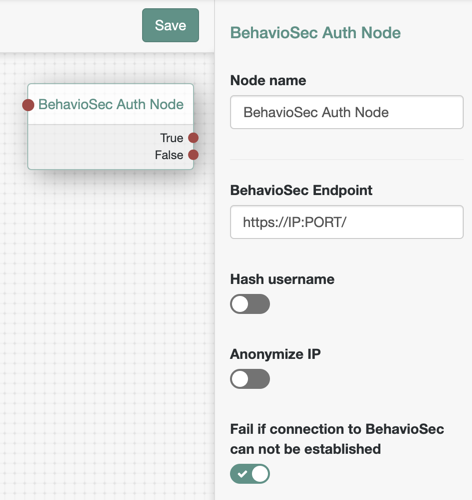
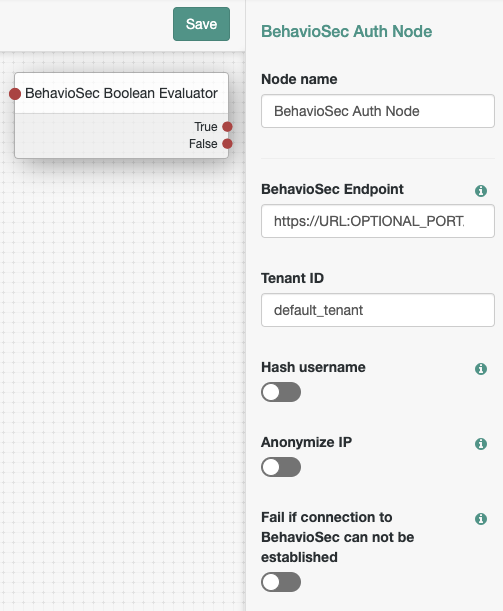
updated documentation

diff --git a/src/main/java/com/behaviosec/tree/nodes/BehavioSecPlugin.java b/src/main/java/com/behaviosec/tree/nodes/BehavioSecPlugin.java
@@ -58,7 +58,7 @@ import static java.util.Arrays.asList;
  */
 public class BehavioSecPlugin extends AbstractNodeAmPlugin {
 
-    static public String currentVersion = "1.0.1";
+    static public String currentVersion = "0.0.0";
 
     /**
      * Specify the Map of list of node classes that the plugin is providing. These will then be installed and

diff --git a/README.md b/README.md
@@ -95,6 +95,10 @@ This is a data collector node that you need to place under the page node. In the
 This node receives the collected data and communicates with the server. 
 
 ### Options
+*BehavioSec Endpoint* - if set to true, the username will be hashed using `Hashing.sha256()`
+
+*Tenant ID* - if set to true, the username will be hashed using `Hashing.sha256()`
+
 *Hash username* - if set to true, the username will be hashed using `Hashing.sha256()`
 
 *Anonymize IP* - if set to true, set last octet of IP address to 000. 
@@ -162,13 +166,16 @@ The Boolean evaluator controls the outcome for flags returned by the BehavioSens
    
 For full list of available flags please see the BehavioSec documentation for [Risk Flags](https://developer.behaviosec.com/dw/risk_flags).
 
+![ScreenShot](images/behaviosec-boolean-evaluator.png)
+
 # Whats new in version 2
 Version 2 brings multiple improvements based on customer feedback. We add support for BehavioSense 5.2 and a multitenant environment. 
 
 Additionally, configuration for new Risk flags: "Copy-Paste" and "IP Change". See the extended information above.
 
-![ScreenShot](images/behaviosec-boolean-evaluator.png)
 
+
+# External Dependencies
 
 # Disclaimer
         
